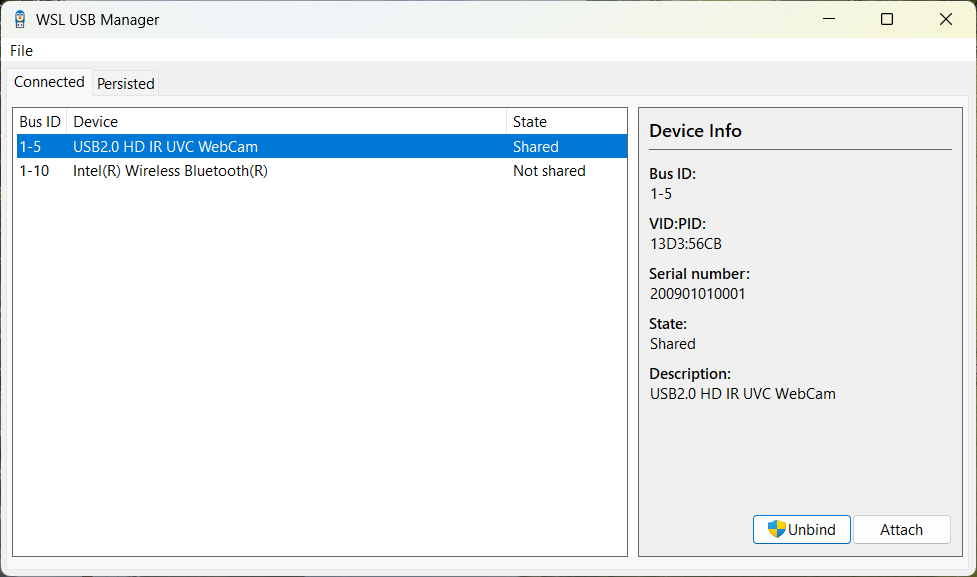
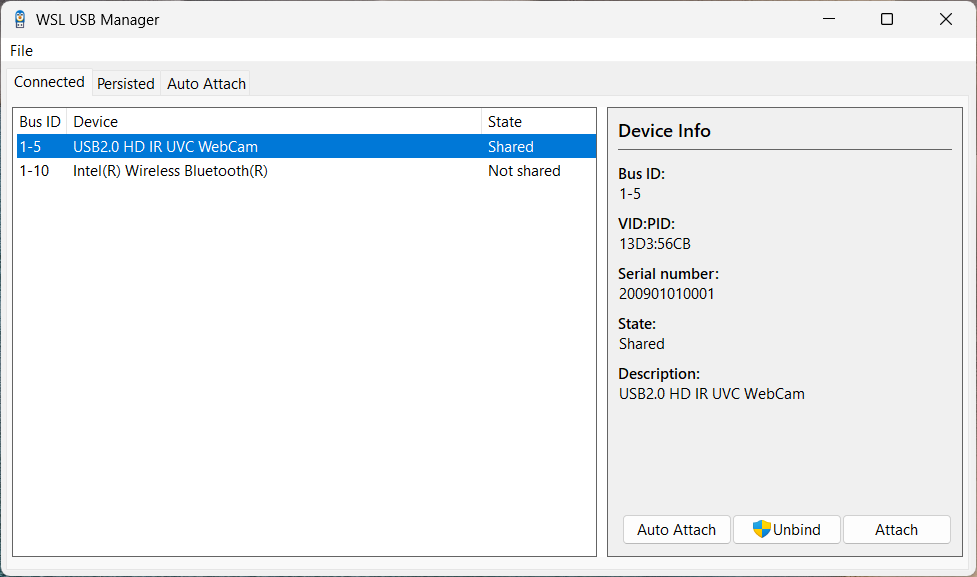
readme: update images to showcase the auto-attach feature

diff --git a/README.md b/README.md
@@ -59,5 +59,5 @@ If you encounter any issues, please open a [GitHub issue](https://github.com/lyn
 
 <div align="left">
     <img width="49%" src="img/connected_devices.png"/> <img width="49%" src="img/persisted_devices.png"/>
-    <img width="49%" src="img/device_context_menu.png"/>
+    <img width="49%" src="img/auto_attach.png"/> <img width="49%" align="top" src="img/device_context_menu.png"/>
 </div>
